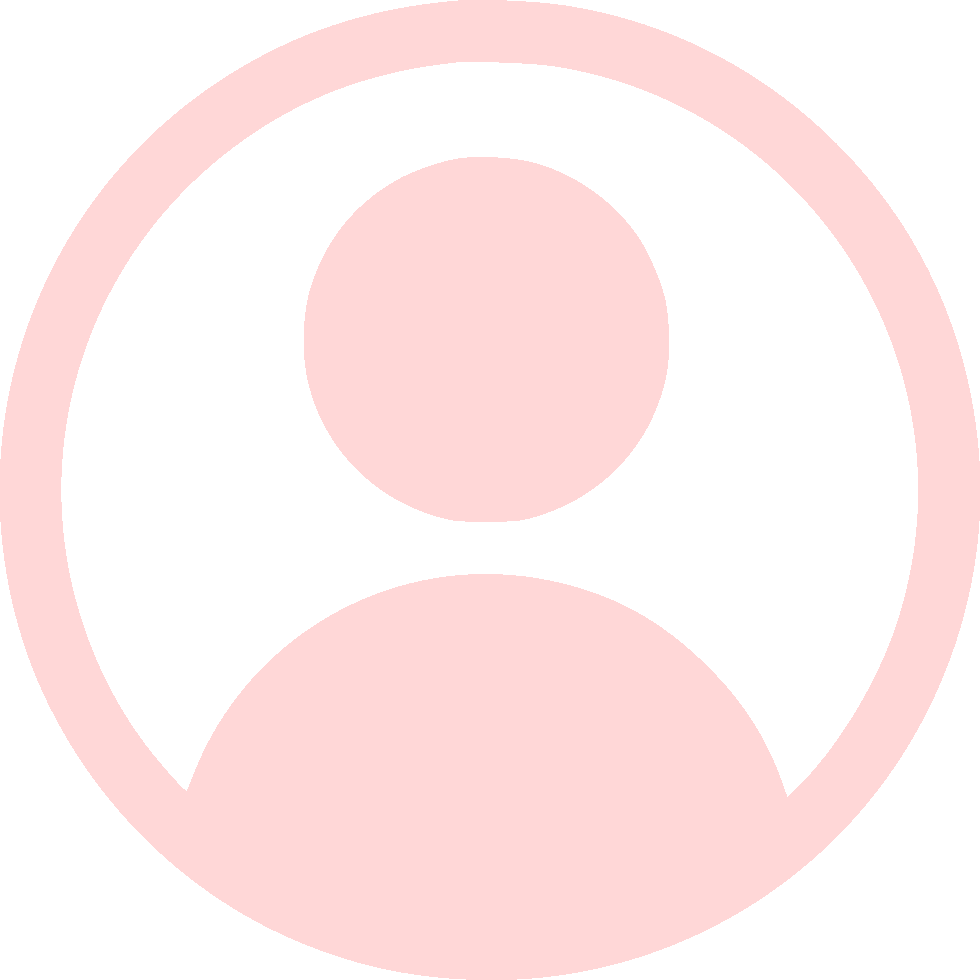
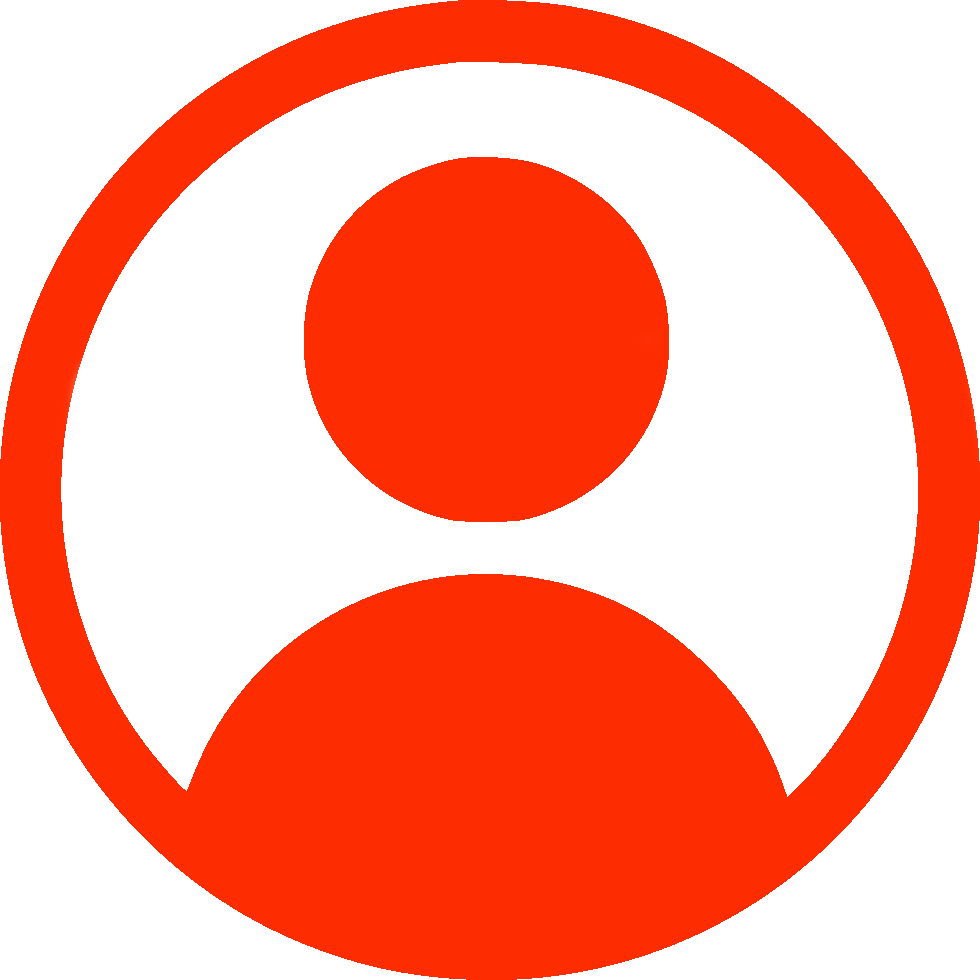
Problème de sécurité : j'avais le role et le userId dans le localStorage Solution: Récupérer l'id de l'user grace au token d'authentification, et utiliser la route profile pour récupérer les données de l'user connecté afin d'avoir son role

diff --git a/frontend/src/components/PostWall.vue b/frontend/src/components/PostWall.vue
@@ -6,7 +6,7 @@
 
         <!-- On vérifie les conditions d'affichage du bouton delete -->
         <button v-if="role === 'admin' || postUserId===userId"
-                class="btn btn-pink"
+                class="btn btn-red"
                 @click="deletePost">
           Delete
         </button> 
@@ -69,8 +69,8 @@ export default {
   methods: {
     deletePost() {
       this.$axios
-        .delete(`/posts/${this.postId}`)
-        //.then(response => this.$router.push({ name: 'Posts' })) Marche pas
+        .delete(`/posts/${this.postId}`,
+                this.$emit('post-deleted'))
         .catch(error => this.message=error)
     }
   },
@@ -80,7 +80,10 @@ export default {
 };
 </script>
 
-<style scoped lang="scss">
+<style lang="scss">
+
+$base-color : rgb(253,45,1);
+
 p {
   margin:0;
 }
@@ -90,13 +93,16 @@ p {
   background-position : center center;
 }
 
-.btn-pink {
-  border: 2px solid rgb(231, 186, 186);
+.btn-red {
+  border: 2px solid darken($base-color, 5%);
   border-radius: 5px;
-  background-color: rgb(100%, 84%, 84%);
+  background-color: $base-color;
   &:hover {
-    background-color: darken(rgb(100%, 84%, 84%),5%);
-    border: 2px solid darken(rgb(231, 186, 186),10%);
+    background-color: darken($base-color,10%);
+    border: 2px solid darken($base-color,25%);
+  }
+  &:active {
+    background-color: lighten($base-color,10%);
   }
 }
 </style>

diff --git a/frontend/src/views/Posts.vue b/frontend/src/views/Posts.vue
@@ -11,8 +11,8 @@
             :date="post.date"
             :postUserId="post.userId"
             :role="role"
-            :userId="userId">
-            <!-- @delete="restartPosts"> -->
+            :userId="userId"
+            v-on:post-deleted="updatePosts">
       </PostWall>
     </div>
 
@@ -24,28 +24,28 @@ export default {
   data () {
     return {
       posts: [],
-      users: [],
-      role: localStorage.getItem('role'),
-      userId: parseInt(localStorage.getItem('userId'))
+      userId: Number,
+      role: ""
     }
   },
-  beforeMount() {
+  mounted() {
+    this.$axios
+      .get(`auth/profile/${sessionStorage.getItem('token')}`)
+      .then(response => {
+        this.role= response.data.user[0].role
+        this.userId= response.data.user[0].id
+      })
     this.$axios
       .get('/posts')
       .then(response => (this.posts = response.data.post))
   },
-  // beforeUpdate() {
-
-  // },
-  destroyed() {
-    this.users= []
+  methods: {
+    updatePosts() {
+      this.$axios
+        .get('/posts')
+        .then(response => {this.posts = response.data.post })
+    }
   }
-  // methods: {
-  //   restartPosts() {
-  //     // J'aimerai recharger le fil d'actu : le composant Posts.vue
-  //     this.$router.push({ name: 'Posts' })
-  //   }
-  // }
 }
 </script>
 

diff --git a/backend/controllers/user.js b/backend/controllers/user.js
@@ -69,10 +69,11 @@ exports.login = (req, res, next) => {
 }
 
 exports.profile = (req, res, next) => {
-  if (req.params.id) {
-    conn.query(`SELECT * FROM users WHERE id=?`, [req.params.id], function(error, response) {
-      if (response.length === 0) return res.status(404).json({ error : 'Profil inconnu' });
-      return res.status(200).json({ response })
+  const decoded = jwt.decode(req.params.token, {complete: true});
+  if (decoded.payload.userId) {
+    conn.query(`SELECT * FROM users WHERE id=?`, [decoded.payload.userId], function(error, user) {
+      if (user.length === 0) return res.status(404).json({ error : 'Profil inconnu' });
+      return res.status(200).json({ user: user })
     })
   }
   else {

diff --git a/frontend/src/views/NewPost.vue b/frontend/src/views/NewPost.vue
@@ -46,7 +46,7 @@ export default {
       imageUrl: "",
       userId: parseInt(localStorage.getItem("userId")),
       message: "",
-      btnClass: "btn btn-upload",
+      btnClass: "btn btn-red",
       titleClass: "font-weight-bold h1 mb-4",
       borderClass: "container fifty-width border border-light p-3 text-light pb-4",
       imageSrc: "",
@@ -81,16 +81,6 @@ export default {
 
 .fifty-width {
   width: 50%
-}
-
-.btn-upload {
-  border: 2px solid rgb(231, 186, 186);
-  border-radius: 5px;
-  background-color: rgb(100%, 84%, 84%);
-  &:hover {
-    background-color: darken(rgb(100%, 84%, 84%),5%);
-    border: 2px solid darken(rgb(231, 186, 186),10%);
-  }
 }
 
 </style>

diff --git a/frontend/src/components/Header.vue b/frontend/src/components/Header.vue
@@ -19,7 +19,7 @@
       </router-link>
       
       <router-link to="/upload" >
-        <button class="my-auto btn-upload p-2">         
+        <button class="my-auto btn-red p-2">         
           + Upload
         </button>
       </router-link>
@@ -56,16 +56,6 @@ export default {
   &>a>img {
     width: 50px;
     height: 50px;
-  }
-}
-
-.btn-upload {
-  border: 2px solid rgb(231, 186, 186);
-  border-radius: 5px;
-  background-color: rgb(100%, 84%, 84%);
-  &:hover {
-    background-color: darken(rgb(100%, 84%, 84%),5%);
-    border: 2px solid darken(rgb(231, 186, 186),10%);
   }
 }
 

diff --git a/frontend/src/views/Login.vue b/frontend/src/views/Login.vue
@@ -62,8 +62,6 @@ export default {
         })
         .then(response => {
           sessionStorage.setItem("token", response.data.token),
-          localStorage.setItem("userId", response.data.user.id),
-          localStorage.setItem("role", response.data.user.role),
           localStorage.setItem("name", response.data.user.firstName + "_" +response.data.user.lastName),
           this.messageConnection = response.data.msg,
           this.$axios.defaults.headers.common["Authorization"] = "Bearer " + response.data.token,

diff --git a/frontend/src/views/Signup.vue b/frontend/src/views/Signup.vue
@@ -56,8 +56,6 @@ export default {
       })
       .then((response) => {
         sessionStorage.setItem("token", response.data.token),
-        localStorage.setItem("userId", response.data.user.id),
-        localStorage.setItem("role", response.data.user.role),
         localStorage.setItem("name", response.data.user.firstName + "_" + response.data.user.lastName),
         this.$axios.defaults.headers.common["Authorization"] = "Bearer " + response.data.token,
         this.$router.push({ name: 'Posts' }) ;  

diff --git a/backend/routes/users.js b/backend/routes/users.js
@@ -6,7 +6,7 @@ const auth = require('../middleware/auth')
 
 router.post('/signup', userCtrl.signup); // IS OK
 router.post('/login', userCtrl.login); // IS OK
-router.get('/profile/:id', auth, userCtrl.profile); // IS OK
+router.get('/profile/:token', auth, userCtrl.profile); // IS OK
 router.delete('/profile/:id', auth, userCtrl.deleteUser); // IS OK
 router.put('/profile/:id', auth, userCtrl.modifyUser);// IS OK
 
